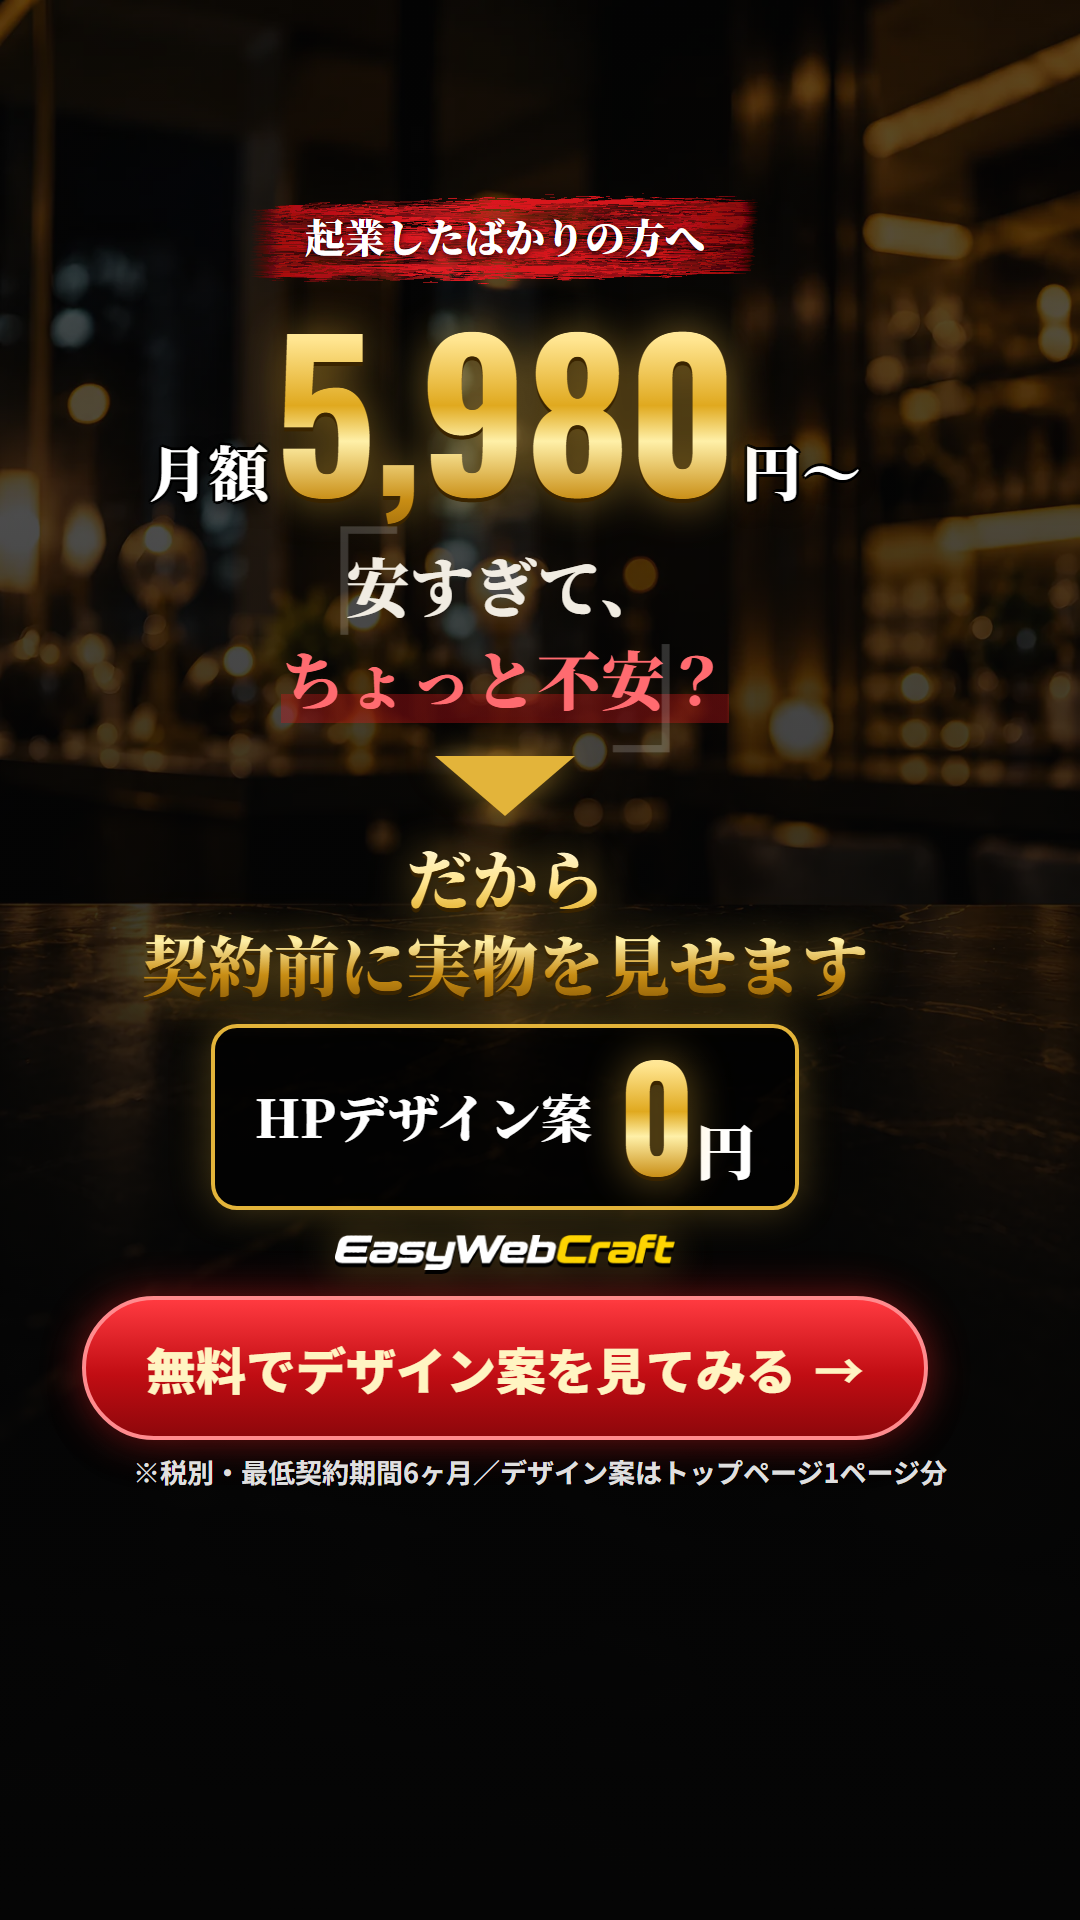
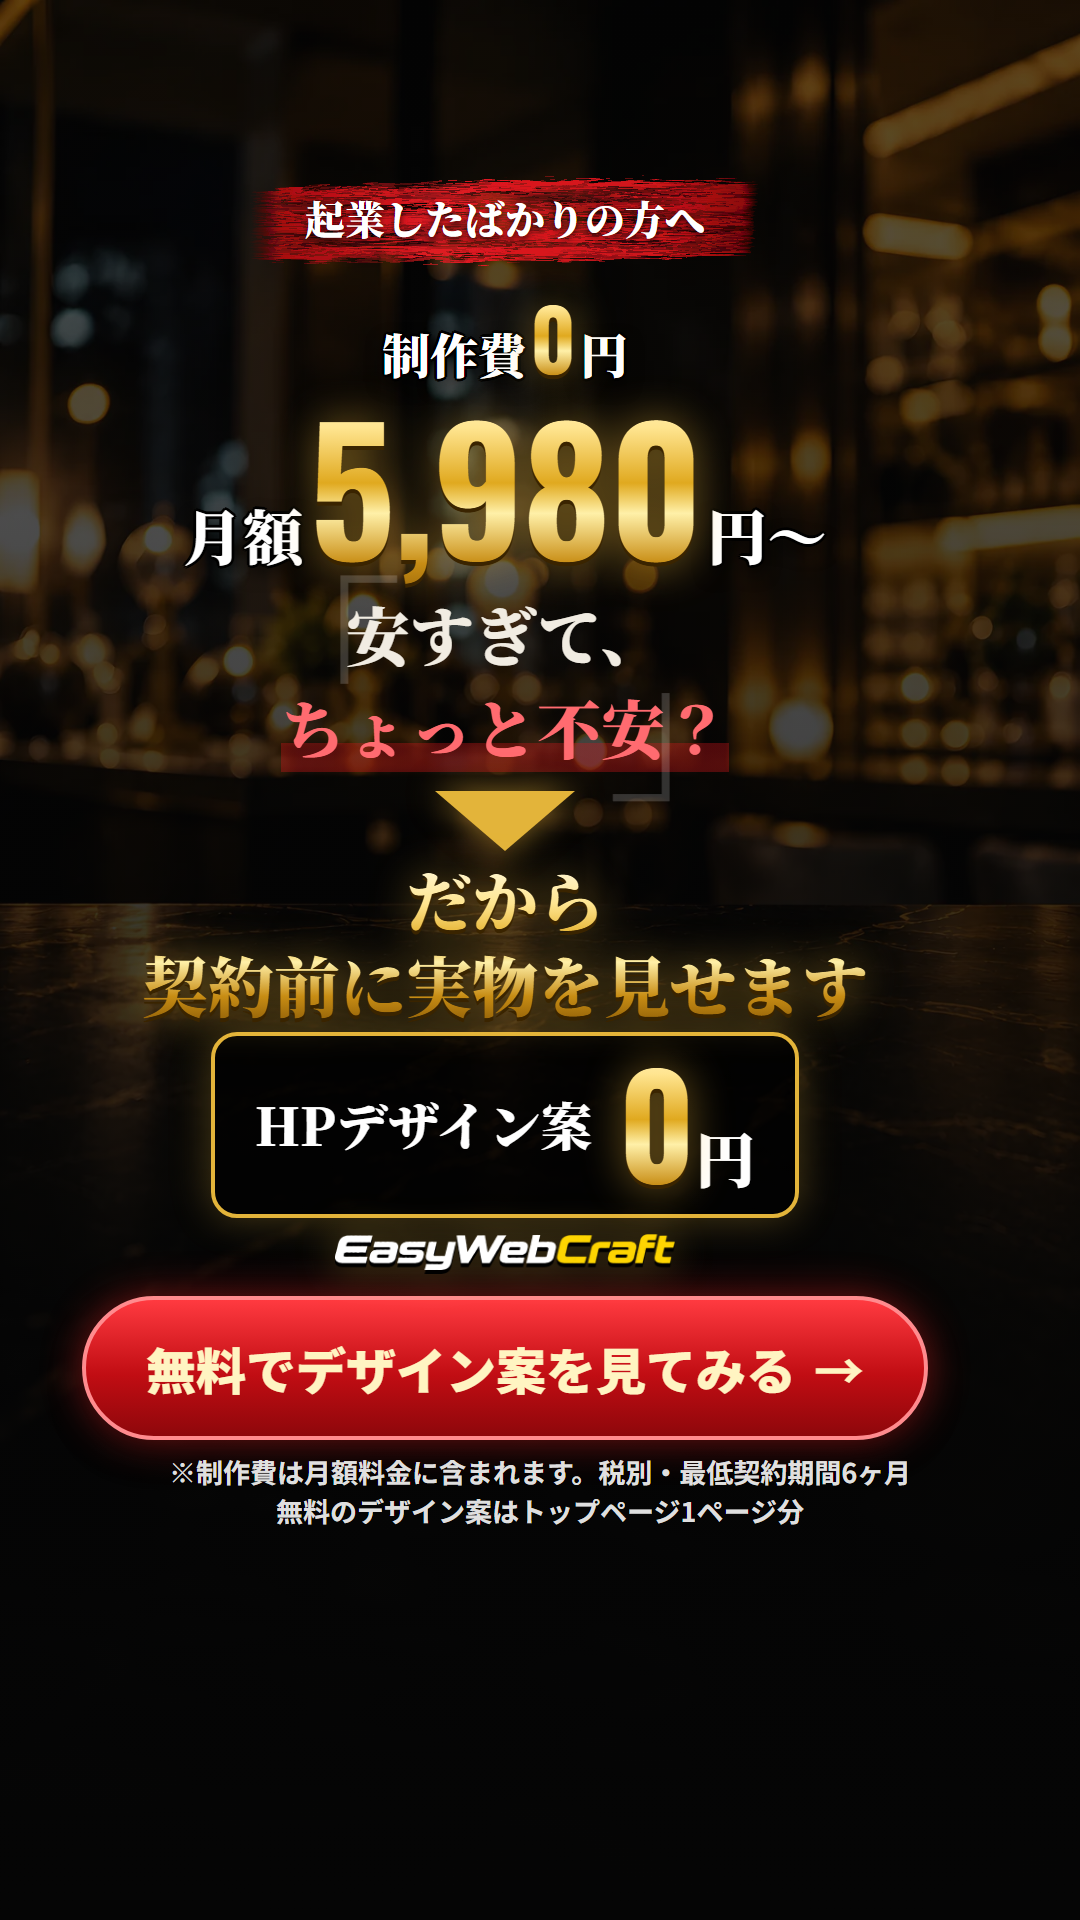
C1・C2-Bに制作費0円を追加（月額に含む旨を注記）
Claude-Session: https://claude.ai/code/session_01G65TiHfa1BUco43NvNDLJF

Changed region(s): [[0.1222, 0.0938, 0.7944, 0.6562], [0.1222, 0.75, 0.8861, 0.8125]]

diff --git a/challenge/index.html b/challenge/index.html
@@ -43,9 +43,9 @@ code{background:var(--bg); padding:0 5px; border-radius:4px; font-size:.88em; wo
   </header>
 
   <div class="grid">
-    <div class="card"><img src="jpg/c1.jpg?v=5" alt="起業したばかりの経営者様へ ホームページ制作 月額5,980円〜"><div class="no"><b>C1</b>起業直後×価格</div><span class="tgt">起業したばかり</span><span class="star">顔出し</span><p class="cap">起業したばかりの経営者様へ。ホームページ制作が月額5,980円〜（税別）。</p></div>
+    <div class="card"><img src="jpg/c1.jpg?v=8" alt="起業したばかりの経営者様へ ホームページ制作 月額5,980円〜"><div class="no"><b>C1</b>起業直後×価格</div><span class="tgt">起業したばかり</span><span class="star">顔出し</span><p class="cap">起業したばかりの経営者様へ。ホームページ制作が制作費0円・月額5,980円〜（税別）。</p></div>
     <div class="card"><img src="jpg/c2.jpg?v=6" alt="こんなに安くて本当にちゃんとしたHPができるの？"><div class="no"><b>C2</b>安すぎて不安？</div><span class="tgt">価格に不安がある人</span><span class="star">主力候補</span><p class="cap">起業したばかりの方へ。こんなに安くて本当にちゃんとしたHPができるの？契約前に実物を見せます。HPデザイン案0円。</p></div>
-    <div class="card"><img src="jpg/c2b.jpg?v=1" alt="月額5,980円〜 安すぎて、ちょっと不安？"><div class="no"><b>C2-B</b>価格を先に見せる版</div><span class="tgt">価格に不安がある人</span><span class="star">C2とA/Bテスト</span><p class="cap">起業したばかりの方へ。月額5,980円〜。安すぎて、ちょっと不安？だから契約前に実物を見せます。HPデザイン案0円。</p></div>
+    <div class="card"><img src="jpg/c2b.jpg?v=8" alt="月額5,980円〜 安すぎて、ちょっと不安？"><div class="no"><b>C2-B</b>価格を先に見せる版</div><span class="tgt">価格に不安がある人</span><span class="star">C2とA/Bテスト</span><p class="cap">起業したばかりの方へ。制作費0円・月額5,980円〜。安すぎて、ちょっと不安？だから契約前に実物を見せます。HPデザイン案0円。</p></div>
     <div class="card"><img src="jpg/c3.jpg?v=6" alt="起業した。でも、どこに頼めばいい？"><div class="no"><b>C3</b>どこに頼めばいい？</div><span class="tgt">依頼先で迷っている人</span><span class="star">新規</span><p class="cap">起業した。ホームページも必要。でも、どこに頼めばいい？制作会社？フリーランス？自分で？デザインを見てから決めてください。</p></div>
     <div class="card"><img src="jpg/c4.jpg?v=5" alt="事業は決まった。でも、ホームページは何から始めればいい？"><div class="no"><b>C4</b>何から始めれば？</div><span class="tgt">HPの知識がない人</span><span class="star">顔出し</span><p class="cap">事業は決まった。でも、ホームページは何から始めればいい？何も決まってなくてOK。</p></div>
     <div class="card"><img src="jpg/c5.jpg?v=5" alt="起業したばかり。やることだらけでHPまで手が回らない"><div class="no"><b>C5</b>手が回らない</div><span class="tgt">本業が忙しい人</span><span class="star">顔出し</span><p class="cap">起業したばかり。やることだらけでHPまで手が回らない。まとめてお任せください。</p></div>

diff --git a/challenge/ads.html b/challenge/ads.html
@@ -131,7 +131,7 @@ body{width:1080px; font-family:"Noto Sans JP",sans-serif; color:#fff; background
 .ad.busy::after{background:linear-gradient(180deg,rgba(5,5,5,0) 0%,rgba(5,5,5,0) 32%,rgba(5,5,5,.8) 46%,rgba(5,5,5,.95) 62%,#050505 100%) !important}
 #c5 .in{top:760px}
 #c4 .blogo{margin-top:0}
-#c2b .offer .h{font-size:52px} #c2b .offer .p b{font-size:140px} #c2b .offer{padding:14px 40px} #c2b .blogo{margin-top:24px}
+#c2b .offer .h{font-size:52px} #c2b .offer .p b{font-size:140px} #c2b .offer{padding:14px 40px} #c2b .blogo{margin-top:16px}
 </style>
 </head>
 <body>
@@ -143,12 +143,13 @@ body{width:1080px; font-family:"Noto Sans JP",sans-serif; color:#fff; background
     <p class="label">起業したばかりの<br><b>経営者様へ</b></p>
     <div class="g30"></div>
     <p class="serif outline" style="font-size:80px">ホームページ制作</p>
+    <p class="zero outline" style="font-size:54px">制作費<span class="n gold" style="font-size:100px">0</span>円</p>
     <p class="price outline" style="font-size:60px">月額<span class="n gold" style="font-size:210px">5,980</span>円〜</p>
     <div class="sp"></div>
     <img class="logo blogo" src="img/logo-fv.webp" alt="EasyWebCraft">
     <p class="cta">無料でデザイン案を見てみる</p>
   </div>
-  <p class="fine">※税別・最低契約期間6ヶ月</p>
+  <p class="fine">※制作費は月額料金に含まれます。税別・最低契約期間6ヶ月</p>
 </section>
 
 <!-- C2 安すぎて不安 → 契約前にデザイン案0円 -->
@@ -172,10 +173,10 @@ body{width:1080px; font-family:"Noto Sans JP",sans-serif; color:#fff; background
 </section>
 <section class="ad" id="c2b">
   <div class="in">
-    <div class="g20"></div>
     <p class="label" style="font-size:40px">起業したばかりの方へ</p>
     <div class="g20"></div>
-    <p class="price outline" style="font-size:60px">月額<span class="n gold" style="font-size:200px">5,980</span>円〜</p>
+    <p class="zero outline" style="font-size:48px">制作費<span class="n gold" style="font-size:84px">0</span>円</p>
+    <p class="price outline" style="font-size:60px">月額<span class="n gold" style="font-size:170px">5,980</span>円〜</p>
     <div class="g20"></div>
     <p class="q" style="font-size:64px; padding:14px 30px">安すぎて、<br><b>ちょっと不安？</b></p>
     <div class="g20"></div>
@@ -188,7 +189,7 @@ body{width:1080px; font-family:"Noto Sans JP",sans-serif; color:#fff; background
     <img class="logo blogo" src="img/logo-fv.webp" alt="EasyWebCraft">
     <p class="cta">無料でデザイン案を見てみる</p>
   </div>
-  <p class="fine">※税別・最低契約期間6ヶ月／デザイン案はトップページ1ページ分</p>
+  <p class="fine">※制作費は月額料金に含まれます。税別・最低契約期間6ヶ月<br>無料のデザイン案はトップページ1ページ分</p>
 </section>
 
 <!-- C3 検索されても出てこない → 他社へ -->
